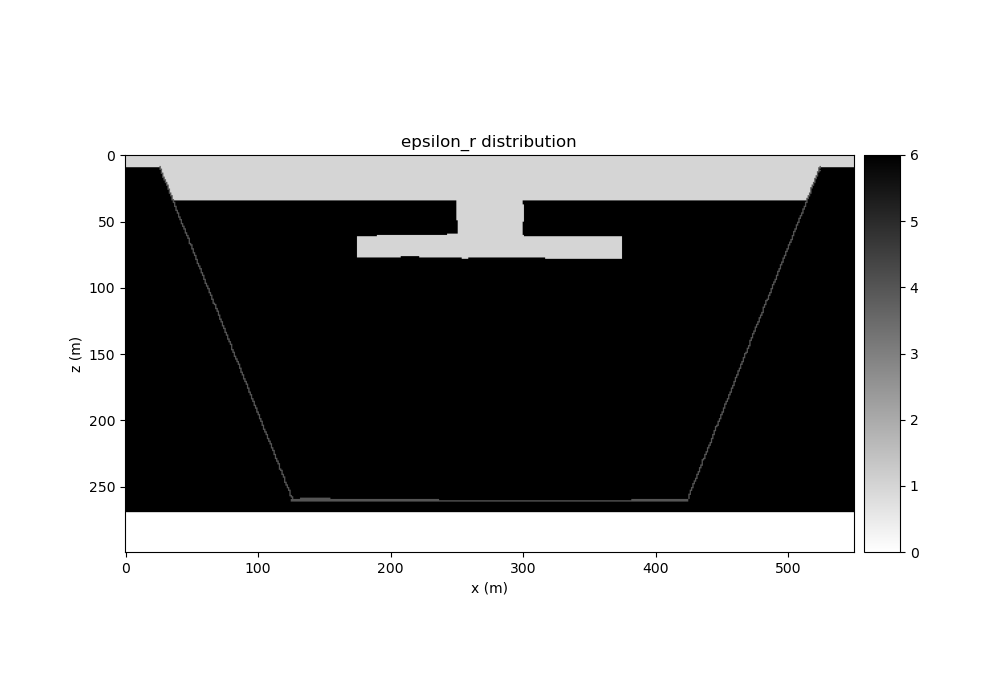
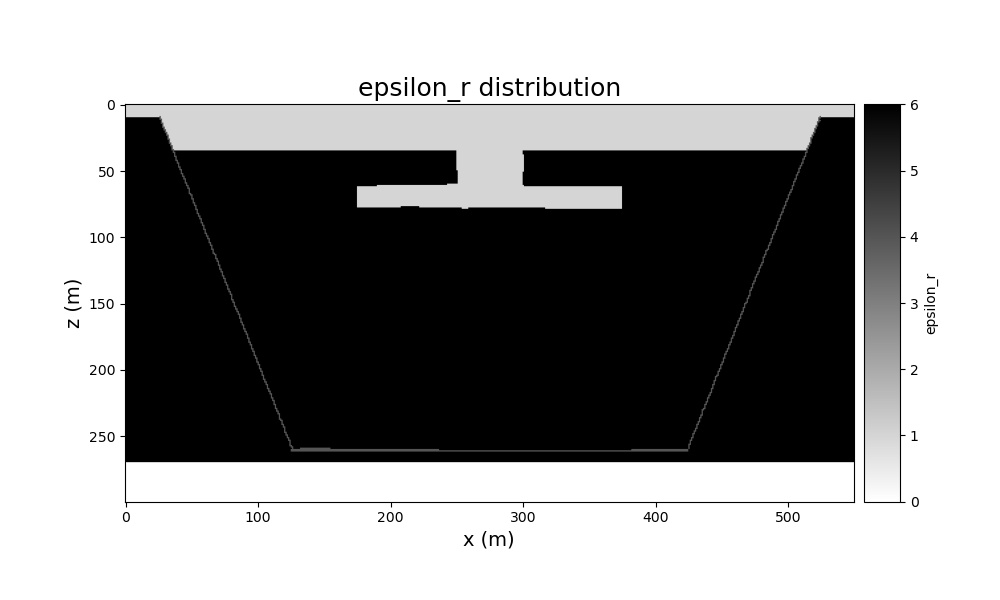
epsilon_map plot remake

diff --git a/tools/get_epsilon_map.py b/tools/get_epsilon_map.py
@@ -1,5 +1,6 @@
 import argparse
 import os
+from cProfile import label
 
 import h5py
 import matplotlib.pyplot as plt
@@ -74,20 +75,20 @@ def plot(map, z_num, x_num):
     output_path = os.path.dirname(h5_file_name)
     np.savetxt(output_path+'/epsilon_map.txt', map, fmt='%.3f')
 
-    fig = plt.figure(figsize=(10, 7))
+    fig = plt.figure(figsize=(10, 6))
     ax = fig.add_subplot(111)
 
     plt.imshow(map,
             #extent=[0, x_num * 0.1, z_num * 0.1, 0],
             cmap='binary')
     
-    plt.xlabel('x (m)')
-    plt.ylabel('z (m)')
-    plt.title('epsilon_r distribution')
+    plt.xlabel('x (m)', size=14)
+    plt.ylabel('z (m)', size=14)
+    plt.title('epsilon_r distribution', size=18)
     
     delvider = axgrid1.make_axes_locatable(ax)
     cax = delvider.append_axes('right', size='5%', pad=0.1)
-    plt.colorbar(cax=cax)
+    plt.colorbar(cax=cax, label='epsilon_r')
 
     plt.savefig(output_path+'/epsilon_map.png')
 
